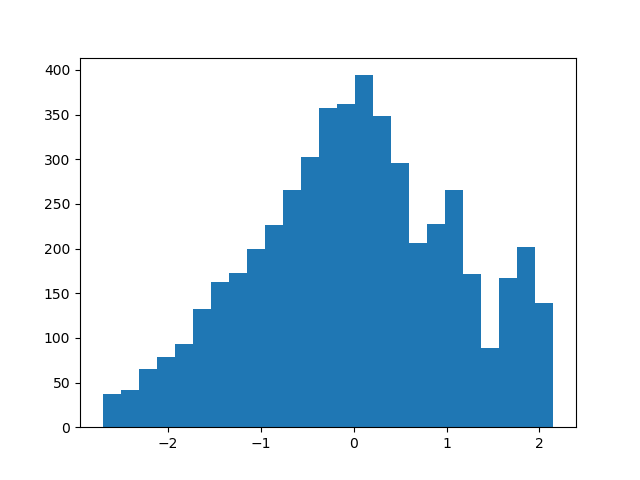
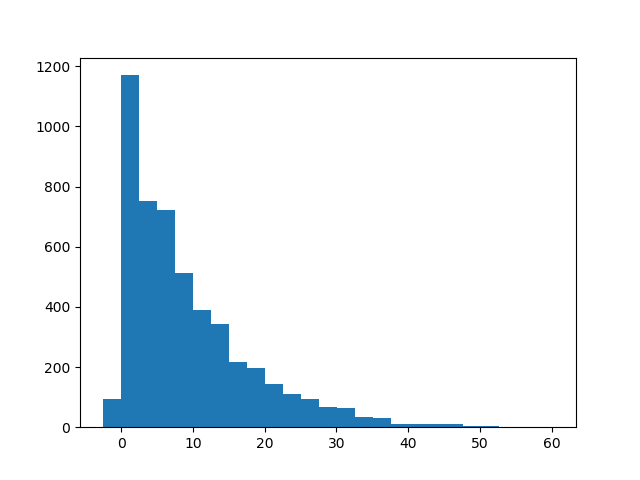
gaussian support added

diff --git a/train_ot.py b/train_ot.py
@@ -26,7 +26,7 @@ class Synthetic(data.Dataset):
     def __init__(self, args,  n=1000):
         self.n = n
         np.random.seed(0)
-        self.y = np.random.normal(loc=0, scale=1, size=(self.n, 1))
+        #self.y = np.random.normal(loc=0, scale=1, size=(self.n, 1))
         #self.y = np.random.multivariate_normal(mean=[2, 3], cov=np.array([[3,2],[2,5]]), size=(self.n))
 
         #torch.manual_seed(0)
@@ -39,7 +39,7 @@ class Synthetic(data.Dataset):
         #self.y = torch.cat([self.y1, self.y2], dim=1)
 
         #exp
-        #self.y1 = np.random.exponential(scale=10, size=(self.n, 1))
+        #self.y = np.random.exponential(scale=10, size=(self.n, 1))
         #self.y2 = np.random.exponential(scale=2, size=(self.n, 1))
         #self.y = np.concatenate([self.y1, self.y2], axis=1)
         
@@ -48,11 +48,9 @@ class Synthetic(data.Dataset):
         #self.y = self.y['Y']
        
         #spiral
-        '''
         self.y, _ = make_spiral(n_samples_per_class=self.n, n_classes=1,
             n_rotations=2.5, gap_between_spiral=0.1, noise=0.2,
                 gap_between_start_point=0.1, equal_interval=True)
-        '''
 
         #self.y = np.random.standard_t(df=2, size=(args.n, 2))
 
@@ -113,45 +111,6 @@ def optimizer(net, args):
     elif args.optimizer.lower() == "radam":
            return radam.RAdam(net.parameters(), lr=args.lr, betas=(args.beta1, args.beta2))
  
-def gaussian_kernel(a, b):
-    dim1_1, dim1_2 = a.shape[0], b.shape[0]
-    depth = a.shape[1]
-    a = a.view(dim1_1, 1, depth)
-    b = b.view(1, dim1_2, depth)
-    a_core = a.expand(dim1_1, dim1_2, depth)
-    b_core = b.expand(dim1_1, dim1_2, depth)
-    numerator = (a_core - b_core).pow(2).mean(2)/depth
-    return torch.exp(-numerator)
-
-def MMD(a, b):
-    return gaussian_kernel(a, a).mean() + gaussian_kernel(b, b).mean() - 2*gaussian_kernel(a, b).mean()
-
-def l1_quantile_loss(output, target, tau, reduce=True):
-    u = target - output
-    loss = (tau - (u.detach() <= 0).float()).mul_(u)
-    return loss.mean() if reduce else loss
-
-def huber_quantile_loss(output, target, tau, net, k=0.02, reduce=True):
-    u = target - output
-    loss = (tau - (u.detach() <= 0).float()).mul_(u.detach().abs().clamp(max=k).div_(k)).mul_(u)
-
-    # covariance difference norm loss
-    #cl =  torch.matmul(net.L.weight, net.L.weight.permute(1, 0)) - utils.cov(target.permute(-1,-2))
-    #cl = torch.norm(cl, p=2)
-    return loss.mean() #+ cl
-
-def w_quantile_loss(output, target, tau, W, reduce=True):
-    u = target - output
-    loss = torch.matmul(u, W)*torch.matmul(tau - (u<0).float(), W.float())
-    return loss.mean() if reduce else loss
-
-def l2_loss(output, target, tau):
-    # assume tau univariate
-    u = target - output
-    loss = torch.abs(u) + (2*tau - 1)*u
-    loss = torch.norm(loss, p=2, dim=1)
-    return loss.mean()
-
 def test(net, args, name, loader, Y):
     net.eval()
 
@@ -160,22 +119,30 @@ def test(net, args, name, loader, Y):
         if hasattr(p, 'be_positive'):
             print(p)
     '''
+    if args.gaussian_support: 
+        gauss = torch.distributions.normal.Normal(torch.tensor([0.]).cuda(), torch.tensor([1.]).cuda())
+
     U = torch.rand(size=(args.n, args.dims), requires_grad=True).cuda()
+    U_ = torch.clone(U)
+    if args.gaussian_support:
+        U = gauss.icdf(U)
+        
     #U = torch.rand(size=(64, 784), requires_grad=True).cuda()
     f = net(U).sum()
     Y_hat = torch.autograd.grad(f, U, create_graph=True)[0]
-    print(Y_hat.max(), Y_hat.min())
+    print("max and min points generated: " + str(Y_hat.max()) + " " + str(Y_hat.min()))
     inverse = net.invert(Y_hat)
-    print(U)
-    print(inverse.max(), inverse.min())
-    m = (U - inverse).abs().max().item()
-    print(m)
-    print()
+    if args.gaussian_support:
+        inverse = gauss.cdf(inverse)
+    m = (U_ - inverse).abs().max().item()
+    print("max error of inversion: " + str(m))
 
     data = torch.sort(Y, dim=0)[0]
-    Y = net.invert(data)
-    print(data)
-    print(Y)
+    z = net.invert(data)
+    if args.gaussian_support:
+        z = gauss.cdf(z)
+    print("sampled points from target, sorted: " + str(data))
+    print("corresponding quantiles: " + str(z))
     #mnist
     '''
     Y_hat = Y_hat.view(64, 28, 28).unsqueeze(1)
@@ -206,10 +173,13 @@ def dual(U, Y_hat, Y, eps=0):
     return loss
 
 def train(net, optimizer, loader, ds, args):
+    m = torch.distributions.normal.Normal(torch.tensor([0.]).cuda(), torch.tensor([1.]).cuda())
     k = args.k
     for epoch in range(1, args.epoch+1):
         for idx, Y in enumerate(loader):
             u = torch.rand(size=(args.batch_size, args.dims)).cuda()
+            if args.gaussian_support:
+                u = m.icdf(u)
             running_loss = 0.0
             optimizer.zero_grad()
             loss = 0
@@ -237,7 +207,7 @@ if __name__ == "__main__":
     # optimization related arguments
     parser.add_argument('--batch_size', default=128, type=int,
                         help='input batch size')
-    parser.add_argument('--epoch', default=1000, type=int,
+    parser.add_argument('--epoch', default=100, type=int,
                         help='epochs to train for')
     parser.add_argument('--optimizer', default='adam', help='optimizer')
     parser.add_argument('--lr', default=0.005, type=float, help='LR')
@@ -253,6 +223,7 @@ if __name__ == "__main__":
     parser.add_argument('--n', default=5000, type=int)
     parser.add_argument('--k', default=100, type=int)
     parser.add_argument('--genTheor', action='store_true')
+    parser.add_argument('--gaussian_support', action='store_true')
     parser.add_argument('--eps', default=0, type=float)
     args = parser.parse_args()
 
